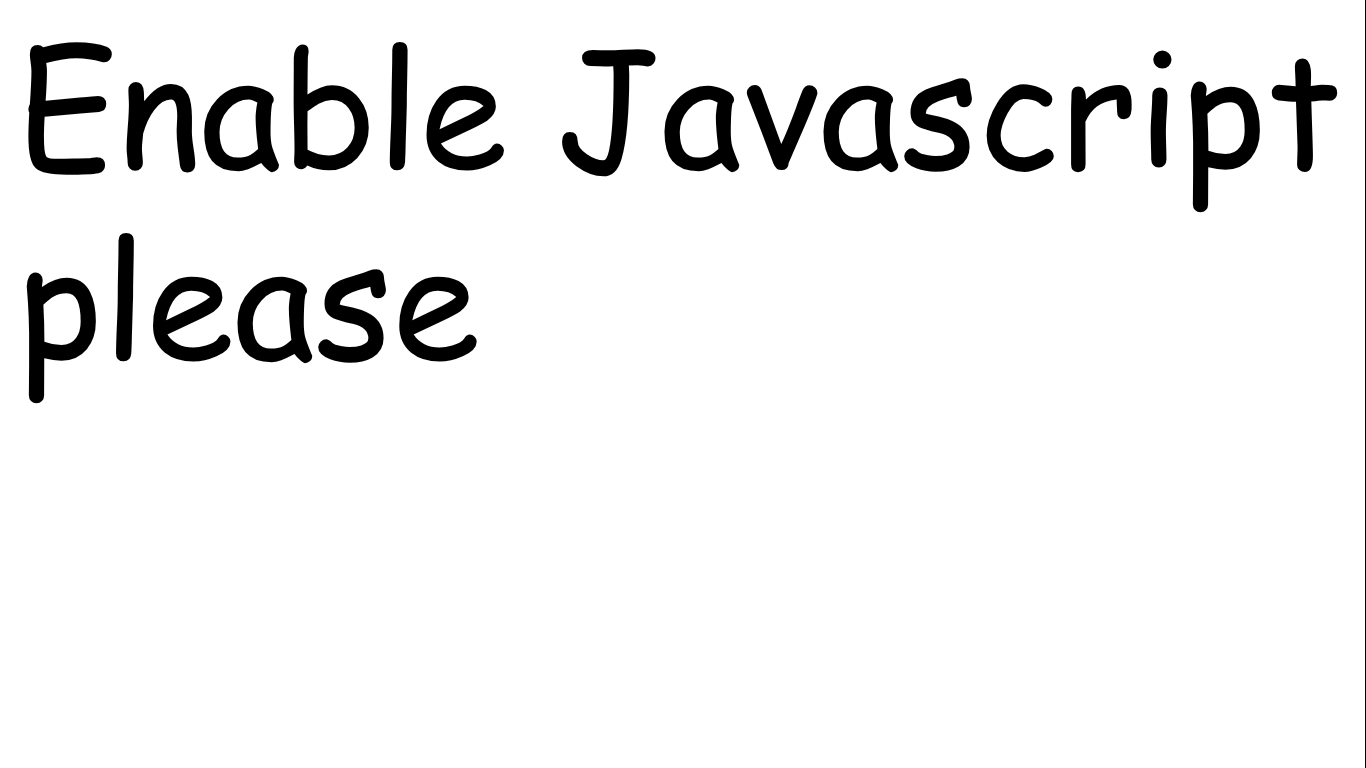
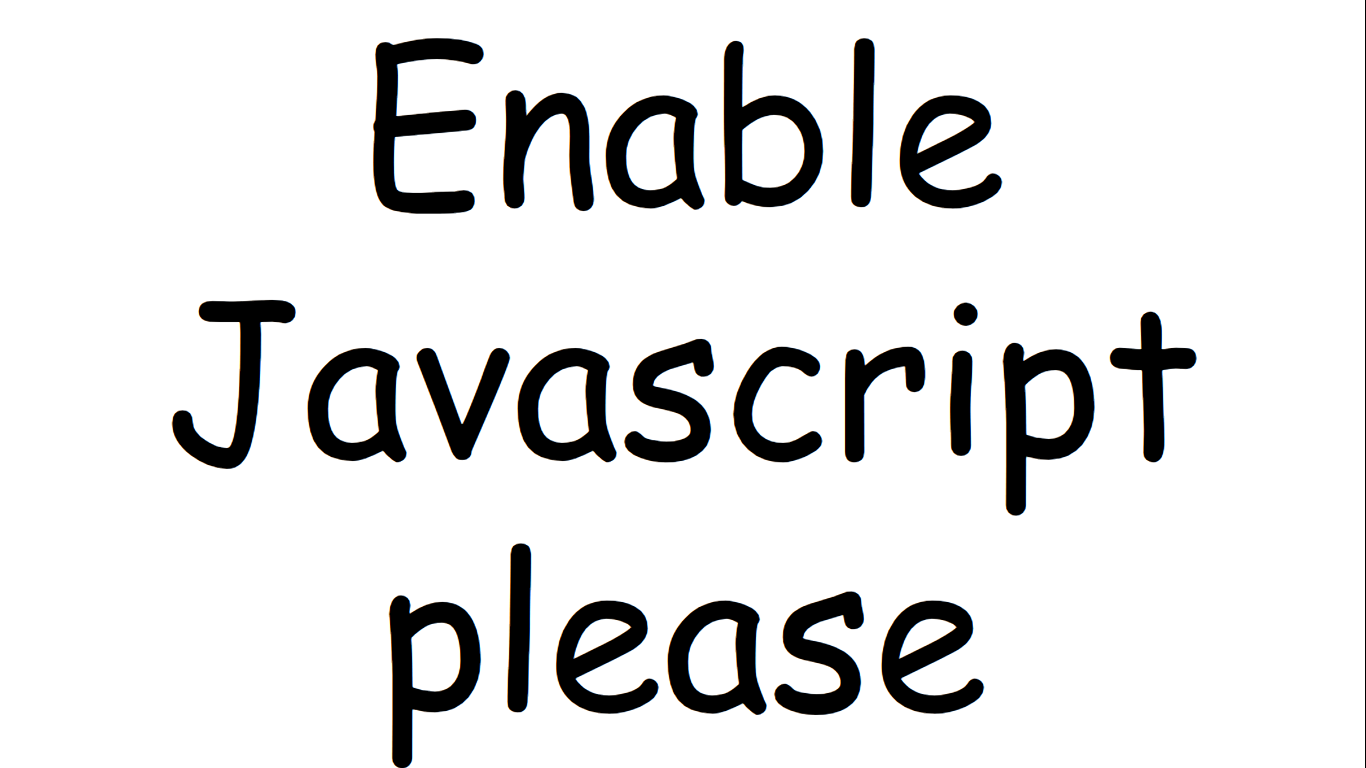
borgir

Changed region(s): [[0.0, 0.0312, 0.9839, 0.2812], [0.0, 0.3125, 0.8917, 0.6875], [0.2767, 0.6875, 0.7379, 1.0]]

diff --git a/site/scripts/burger.js b/site/scripts/burger.js
@@ -1,0 +1,23 @@
+const load = document.querySelector("#loading");
+const text = document.querySelector("#burger_text")
+const wait = (miliseconds) => new Promise(resolve => setTimeout(resolve, miliseconds));
+// I'm too lazy for proper error handling lol
+let time = localStorage.getItem("stare_time");
+if (time == null) {
+    time = 0;
+    console.log("New user ig (or erased browsing data)");
+}
+else {
+    console.log("Data refreshed")
+}
+// epic loop trust
+async function time_loop() {
+    while (true) {
+        await wait(1000);
+        time++;
+        text.textContent = `You have stared at the hamburger for ${time} seconds`;
+    }
+}
+load.style.display = "none";
+console.log("Hooray it loaded");
+time_loop();

diff --git a/site/styles/generic.css b/site/styles/generic.css
@@ -7,6 +7,8 @@ img {
 a {
     font-size: clamp(1rem, 1vw + 0.5rem, 1.25rem);
     font-family: "Lucida Handwriting", Arial, sans-serif;
+    text-decoration: revert;
+    color: revert;
 }
 p, li {
     font-size: clamp(1rem, 1vw + 0.5rem, 1.25rem);
@@ -18,10 +20,24 @@ h1, h2, h3, h4, h5, h6 {
     font-family: "Lucida Handwriting", Arial, sans-serif;
     text-decoration: #000000;
 }
+/* Giant class is so fucking useful */
+.giant {
+    width: 100vw;
+    height: 100vh;
+}
+#no_script {
+    z-index: 999;
+}
+#loading {
+    z-index: 998;
+}
 #saturn {
     width: clamp(10.5rem, 27.5vw, 30rem)
 }
-#burger {
-    width: 100vw;
-    height: 100vh;
+#burger_text {
+    text-align: center;
+    position: absolute;
+    top: 25%;
+    left: 50%;
+    text-shadow: 2px 2px 3px #ffffff;
 }

diff --git a/site/index.html b/site/index.html
@@ -27,12 +27,11 @@ and I also centered my discord server (linked in socials) around him. If you wan
         <ul>
             <li><a href="socials">Socials</a></li>
             <li><a href="https://github.com/MrSaturnIdk/MrSaturnIdk.github.io">Site Source Code</a></li>
-            <li><a href="games">Games I decided to make</a></li>
-            <li><a href="burger">Burger</a></li>
+            <li><a href="web">Web projects</a></li>
         <ul>
         <h1>License</h1>
         <p>Licensed under <a href="license">AGPL-3.0-or-later</a></p>
         <br>
-        <p>(The code atleast)</p>
+        <p>(The web projects)</p>
     </body>
 </html>

diff --git a/README.md b/README.md
@@ -5,4 +5,4 @@ I mean what else could it possibly be
 # License
 Licensed under [AGPL-3.0-or-later](LICENSE)
 
-(The code atleast)
+(The web projects)